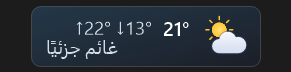
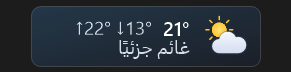
Right-align the Arabic condition line in the widget and add a Language submenu to its menu

Changed region(s): [[0.1546, 0.5556, 0.6804, 0.8333]]

diff --git a/src/SkyGlance/SkyGlanceApp.cs b/src/SkyGlance/SkyGlanceApp.cs
@@ -439,6 +439,16 @@ sealed class SkyGlanceApp : ApplicationContext
         }
         menu.Items.Add(unitMenu);
 
+        // Each language is named in itself, so it can be found from either one.
+        var langMenu = new ToolStripMenuItem(L.T("Language"));
+        foreach (var (code, name) in new[] { ("en", "English"), ("ar", "العربية") })
+        {
+            var item = new ToolStripMenuItem(name) { Checked = S.Language == code };
+            item.Click += (_, _) => { if (S.Language == code) return; var s = S.Clone(); s.Language = code; ApplySettings(s); };
+            langMenu.DropDownItems.Add(item);
+        }
+        menu.Items.Add(langMenu);
+
         menu.Items.Add(new ToolStripSeparator());
         menu.Items.Add(L.T("Settings"), null, (_, _) => ShowSettings());
         menu.Items.Add(L.T("CheckForUpdates"), null, async (_, _) =>

diff --git a/src/SkyGlance/UI/Taskbar/TaskbarWidget.cs b/src/SkyGlance/UI/Taskbar/TaskbarWidget.cs
@@ -320,7 +320,8 @@ sealed class TaskbarWidget : NativeWindow
             int textX = rtl ? pad : pad + iconS + gap;
             using var sf = new StringFormat
             {
-                Alignment = rtl ? StringAlignment.Far : StringAlignment.Near,
+                // Near is the reading start: the right edge once DirectionRightToLeft is set.
+                Alignment = StringAlignment.Near,
                 FormatFlags = StringFormatFlags.NoWrap | (rtl ? StringFormatFlags.DirectionRightToLeft : 0),
                 Trimming = StringTrimming.EllipsisCharacter,
             };
